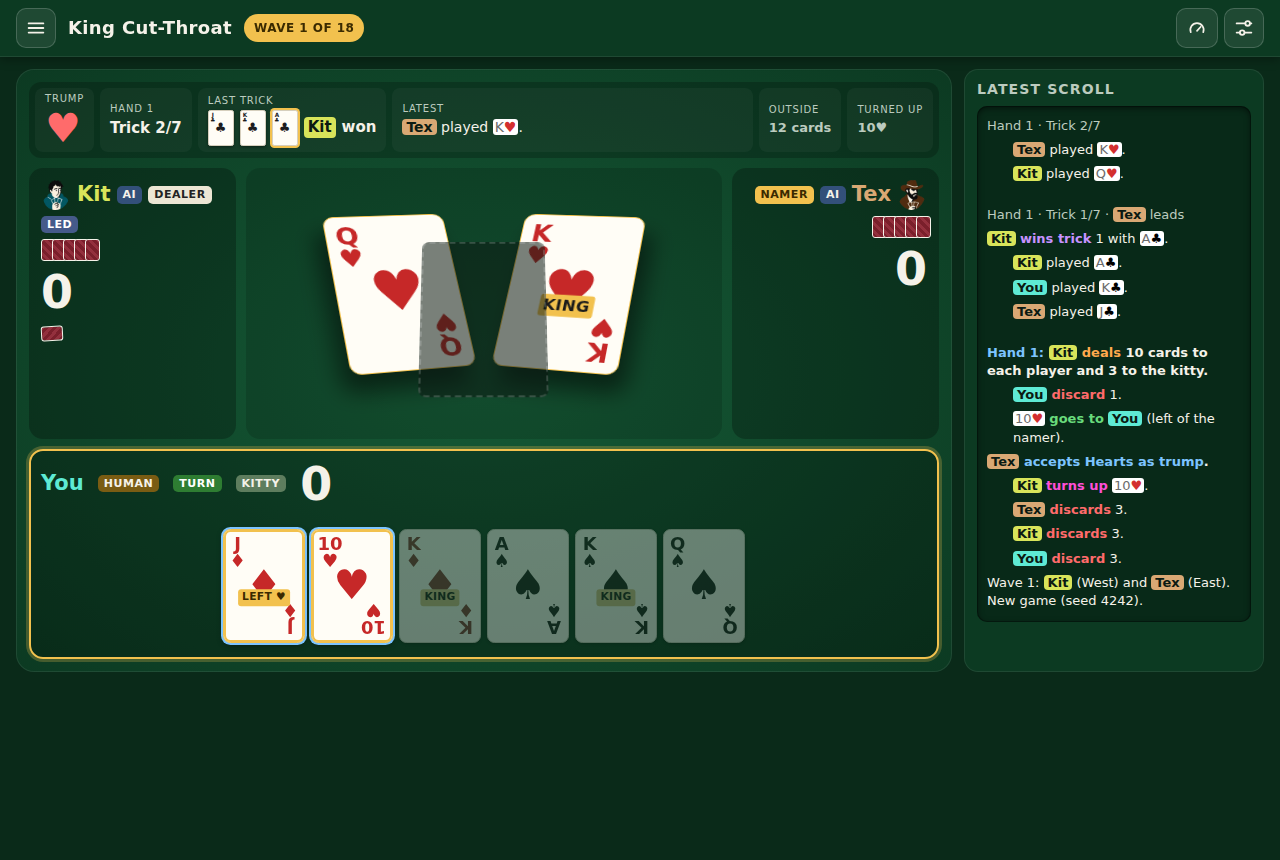
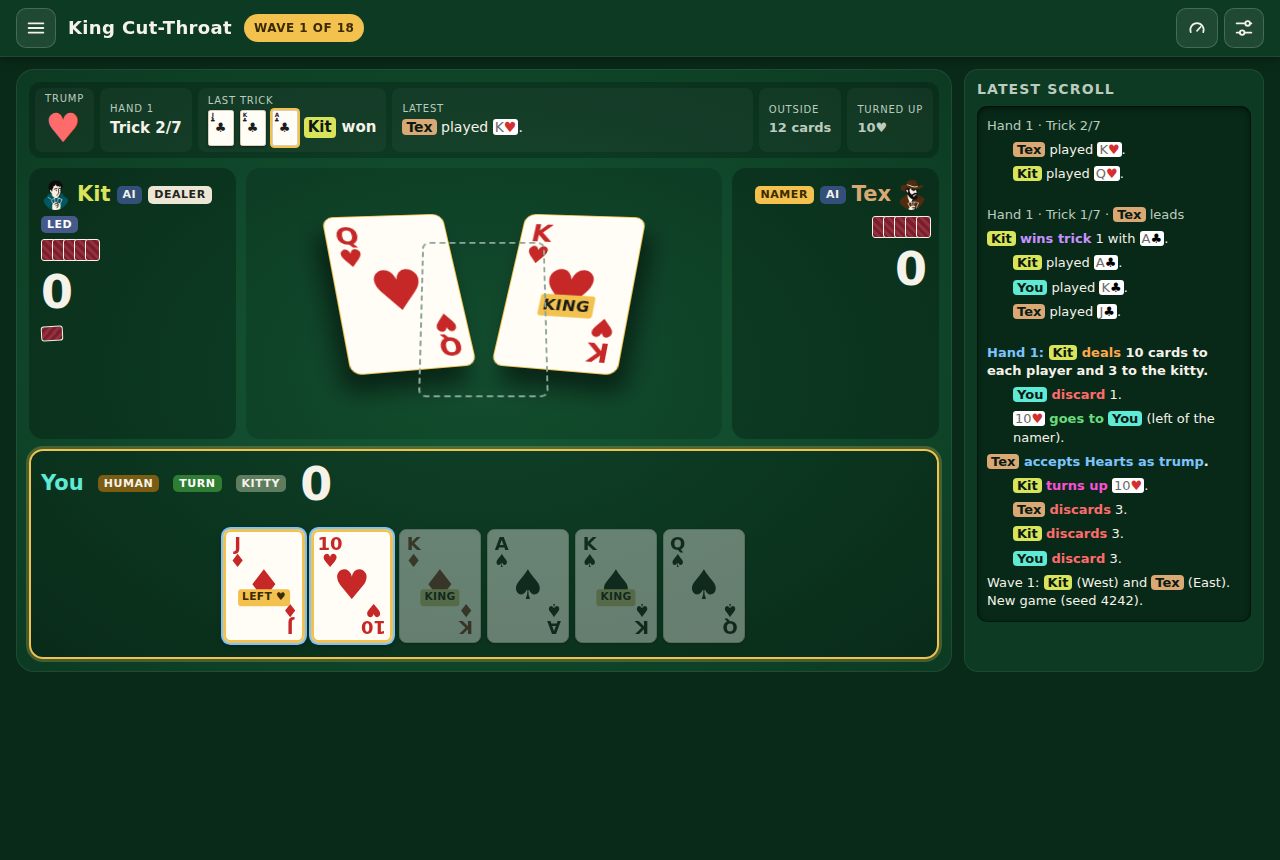
Make your trick space a dashed outline only
Drop the dark fill that dimmed the cards under it. The dashes use a
mid tone so they show on the felt and on the white cards.

Claude-Session: https://claude.ai/code/session_01QkpazkapUFZWg4SWZB1dDA

Changed region(s): [[0.3125, 0.2721, 0.4375, 0.4837]]

diff --git a/index.html b/index.html
@@ -2066,7 +2066,7 @@ const UI_PROFILE_ADVANCED = Object.freeze({
   '.who': { kind: 'L, S', show: 'Hidden. The slot\'s position shows who played.', click: null },
   '.summary': { kind: 'S, R', show: 'As now.', click: 'Its Continue button moves on, as now.' },
   '.meta': { kind: 'R', show: 'As now.', click: null },
-  '.trick': { kind: 'S', show: 'As now: one slot per seat, your slot lower than the bot slots, as at a real table. The trick cards are in 3D: the table tilts away from you, each bot card turns to face your slot, and every card lifts with a soft shadow. All trick cards, and your dashed space, are 1.5 times the base card size. The bot cards overlap your slot, like a real pile. Stacking follows play order: each card lies above the cards played before it, and your dashed space, while you still have to play, lies above every card. A bot that has not played yet shows no placeholder. Reduced motion keeps the pose but drops the transition. At trick end the cards slide to the winner\'s won-trick stack.', click: 'Skips the trick-end wait, as now.', issue: 53 },
+  '.trick': { kind: 'S', show: 'As now: one slot per seat, your slot lower than the bot slots, as at a real table. The trick cards are in 3D: the table tilts away from you, each bot card turns to face your slot, and every card lifts with a soft shadow. All trick cards, and your dashed space, are 1.5 times the base card size. The bot cards overlap your slot, like a real pile. Stacking follows play order: each card lies above the cards played before it, and your dashed space, while you still have to play, lies above every card: an outline only, no fill, in a mid tone that shows on the felt and on the cards. A bot that has not played yet shows no placeholder. Reduced motion keeps the pose but drops the transition. At trick end the cards slide to the winner\'s won-trick stack.', click: 'Skips the trick-end wait, as now.', issue: 53 },
   'table.stats': { kind: 'R', show: 'As now.', click: null },
   '.status': { kind: 'S', show: 'Hidden on screen. #liveStatus still reads the full sentence to screen readers.', click: null, issue: 53 },
   '.lasttrick': { kind: 'R', show: 'Hidden in the center. The Last trick cell of the information strip shows it.', click: null, issue: 53 },

diff --git a/mockups/advanced.js b/mockups/advanced.js
@@ -49,7 +49,7 @@ const css = `
 .trick .slot{position:relative}
 .trick .slot-1{justify-self:end;margin-right:calc(var(--cw)*-.55)}
 .trick .slot-2{justify-self:start;margin-left:calc(var(--cw)*-.55)}
-.trick .slot .empty{background:rgba(11,26,18,.55)}
+.trick .slot .empty{background:none;border-color:#8fa79a}
 .trick .slot-1 .empty,.trick .slot-2 .empty{visibility:hidden}
 .trick{min-height:calc(var(--cw)*3.3)!important}
 .trick .slot-1 .card{transform:rotateX(22deg) rotateY(16deg) rotateZ(-14deg) translateZ(30px);box-shadow:-10px 18px 22px rgba(0,0,0,.5)}
